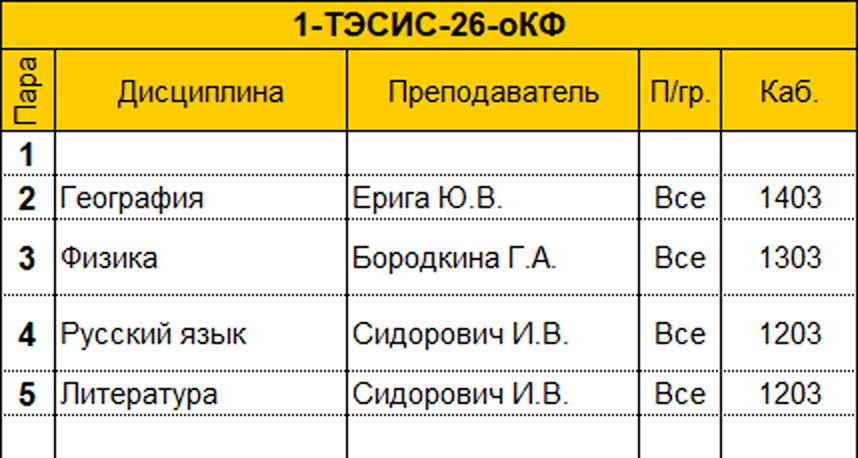
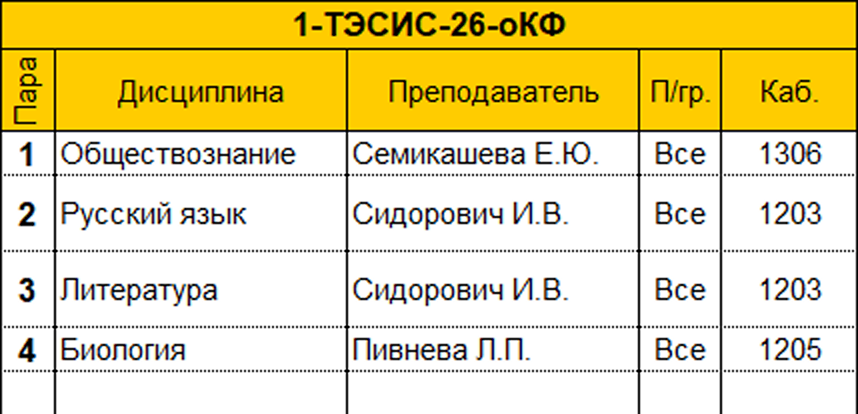
Loool

Changed region(s): [[0.0, 0.0, 1.0, 0.6087], [0.0, 0.6377, 1.0, 0.9275]]

diff --git a/index.html b/index.html
@@ -159,11 +159,15 @@
     async function loadNews() {
       try {
         const list = (await getJSON("news.json")).slice(0, CONFIG.newsLimit);
+        const imgSrc = s => /^https?:/.test(s) ? s : CONFIG.dataPath + s;
         $("news").innerHTML = list.length ? list.map(n => `
       <a class="news-item" href="${esc(n.url)}" target="_blank" rel="noopener">
-        <div class="nt">${esc(n.title)}</div>
-        <div class="nd">${n.date ? new Date(n.date).toLocaleDateString("ru-RU", {day: "numeric", month: "long", year: "numeric"}) : ""}</div>
-        <div class="ns">${esc(n.summary)}</div>
+        ${n.image ? `<img class="news-img" src="${esc(imgSrc(n.image))}" alt="" loading="lazy">` : ""}
+        <div class="news-body">
+          <div class="nt">${esc(n.title)}</div>
+          <div class="nd">${n.date ? new Date(n.date).toLocaleDateString("ru-RU", {day: "numeric", month: "long", year: "numeric"}) : ""}</div>
+          <div class="ns">${esc(n.summary)}</div>
+        </div>
       </a>`).join("") : '<p class="empty">Новостей пока нет.</p>';
       } catch (e) {fail("news", "Новости пока недоступны.");}
     }

diff --git a/styles/index_style.css b/styles/index_style.css
@@ -255,11 +255,33 @@ main.portal {
 
 /* новости */
 .news-item {
-    display: block;
+    display: flex;
     padding: 14px 0;
     border-top: 1px solid var(--line);
     text-decoration: none;
-    color: inherit
+    color: inherit;
+    align-items: flex-start;
+    gap: 14px;
+}
+
+.news-img {
+    width: 112px;
+    height: 76px;
+    object-fit: cover;
+    border-radius: 10px;
+    flex-shrink: 0;
+    background: var(--tint);
+}
+
+.news-body {
+    min-width: 0;
+}
+
+@media (max-width: 520px) {
+    .news-img {
+        width: 84px;
+        height: 60px;
+    }
 }
 
 .news-item:first-of-type {

diff --git a/update.py b/update.py
@@ -10,7 +10,7 @@ import xml.etree.ElementTree as ET
 from datetime import datetime, timedelta
 from email.utils import parsedate_to_datetime
 from pathlib import Path
-from urllib.parse import urljoin
+from urllib.parse import urljoin, urlparse
 from zoneinfo import ZoneInfo
 
 import requests
@@ -131,61 +131,144 @@ def get_schedule(now, out, debug=False):
 
 
 # ---------------------- НОВОСТИ ----------------------
+def decode(content):
+    """Сайт отдаёт UTF-8, но requests без charset в заголовках путает кодировку («кракозябры»)."""
+    for enc in ("utf-8", "cp1251"):
+        try:
+            return content.decode(enc)
+        except UnicodeDecodeError:
+            continue
+    return content.decode("utf-8", errors="replace")
+
+
 def strip_tags(s):
     return clean(re.sub(r"<[^>]+>", " ", s or ""))
 
 
-def short(s, n=220):
+def short(s, n=200):
     s = clean(s)
     return s if len(s) <= n else s[:n].rsplit(" ", 1)[0] + "…"
 
 
-def news_from_rss():
-    for path in ("feed", "rss", "rss.xml", "?feed=rss2", "news/rss"):
+NEWS_HREF = re.compile(r"/(?:novosti|news)/(?!page|\?)[^/?#]+", re.I)
+SKIP_TITLE = re.compile(r"^(все новости|архив|читать|подробнее|далее|ещё|еще)", re.I)
+
+
+def find_image(box):
+    """Картинка новости: <img> (в т.ч. ленивая) или background-image."""
+    for img in box.find_all("img"):
+        src = img.get("data-src") or img.get("data-lazy-src") or img.get("src") or ""
+        if not src and img.get("srcset"):
+            src = img["srcset"].split()[0]
+        if src and not src.startswith("data:") and not re.search(r"logo|icon|\.svg|sprite", src, re.I):
+            return urljoin(BASE, src)
+    for el in box.find_all(style=True):
+        m = re.search(r"url\(['\"]?([^'\")]+)", el["style"])
+        if m:
+            return urljoin(BASE, m[1])
+    return ""
+
+
+def parse_rss(content):
+    items = []
+    for it in ET.fromstring(content).iter("item"):
         try:
-            r = get(urljoin(BASE, path), timeout=(5, 10))
-            if r.status_code != 200 or b"<item" not in r.content[:200000]:
-                continue
-            items = []
-            for it in ET.fromstring(r.content).iter("item"):
-                try:
-                    date = parsedate_to_datetime(it.findtext("pubDate")).date().isoformat()
-                except Exception:
-                    date = ""
-                items.append({"title": clean(it.findtext("title")), "date": date,
-                              "summary": short(strip_tags(it.findtext("description"))),
-                              "url": clean(it.findtext("link"))})
-            if items:
-                return items[:NEWS_LIMIT]
+            date = parsedate_to_datetime(it.findtext("pubDate")).date().isoformat()
         except Exception:
-            continue
-    return []
+            date = ""
+        enc = it.find("enclosure")
+        items.append({"title": clean(it.findtext("title")), "date": date,
+                      "summary": short(strip_tags(it.findtext("description"))),
+                      "url": clean(it.findtext("link")),
+                      "image": enc.get("url", "") if enc is not None else ""})
+    return items[:NEWS_LIMIT]
 
 
-def news_from_html():
-    from bs4 import BeautifulSoup
-    soup = BeautifulSoup(get(BASE).text, "html.parser")
-    seen, items = set(), []
-    for a in soup.find_all("a", href=True):
-        title = clean(a.get_text(" "))
-        href = urljoin(BASE, a["href"])
-        if len(title) < 20 or href in seen or not re.search(r"news|novost|article|post|/20\d\d", href, re.I):
+def news_from_html(soup):
+    links = [a for a in soup.find_all("a", href=True) if NEWS_HREF.search(urlparse(urljoin(BASE, a["href"])).path)]
+    hrefs = {urljoin(BASE, a["href"]).split("#")[0] for a in links}
+    order, items = [], {}
+    for a in links:
+        href = urljoin(BASE, a["href"]).split("#")[0]
+        if href not in items:
+            items[href] = a
+            order.append(href)
+    res = []
+    for href in order:
+        a = items[href]
+        # поднимаемся до карточки: пока внутри только эта новость
+        box = a
+        for _ in range(5):
+            par = box.parent
+            if par is None or par.name in ("body", "html"):
+                break
+            inside = {urljoin(BASE, x["href"]).split("#")[0] for x in par.find_all("a", href=True)} & hrefs
+            if inside - {href}:
+                break
+            box = par
+        titles = [clean(x.get_text(" ")) for x in box.find_all("a", href=True)
+                  if urljoin(BASE, x["href"]).split("#")[0] == href]
+        heading = box.find(["h1", "h2", "h3", "h4", "h5"])
+        title = clean(heading.get_text(" ")) if heading else ""
+        if not title:
+            title = max((t for t in titles if not SKIP_TITLE.match(t)), key=len, default="")
+        if len(title) < 12 or SKIP_TITLE.match(title):
             continue
-        seen.add(href)
-        box = a.find_parent(["article", "li", "div"]) or a
         text = clean(box.get_text(" "))
         m = re.search(r"(\d{2})\.(\d{2})\.(\d{4})", text)
-        date = f"{m[3]}-{m[2]}-{m[1]}" if m else ""
-        p = box.find("p")
-        summary = short(p.get_text(" ")) if p and clean(p.get_text()) != title else ""
-        items.append({"title": title, "date": date, "summary": summary, "url": href})
-        if len(items) >= NEWS_LIMIT:
+        slug = re.search(r"/(\d{2})(\d{2})(\d{2})-\d+", href)
+        date = f"{m[3]}-{m[2]}-{m[1]}" if m else (f"20{slug[1]}-{slug[2]}-{slug[3]}" if slug else "")
+        p = next((clean(x.get_text(" ")) for x in box.find_all("p") if len(clean(x.get_text())) > 30
+                  and clean(x.get_text()) != title), "")
+        res.append({"title": title, "date": date, "summary": short(p), "url": href, "image": find_image(box)})
+        if len(res) >= NEWS_LIMIT:
             break
+    return res
+
+
+def save_image(url, out):
+    """Скачивает картинку новости в news_img/ (уменьшенную). Если не вышло — оставляет ссылку."""
+    import hashlib
+    import cv2, numpy as np
+    name = hashlib.md5(url.encode()).hexdigest()[:12] + ".jpg"
+    path = out / "news_img" / name
+    if path.exists():
+        return f"news_img/{name}"
+    try:
+        r = get_retry(url, tries=2, timeout=(15, 60))
+        im = cv2.imdecode(np.frombuffer(r.content, np.uint8), cv2.IMREAD_COLOR)
+        if im is None:
+            return url
+        h, w = im.shape[:2]
+        if w > 640:
+            im = cv2.resize(im, (640, int(h * 640 / w)), interpolation=cv2.INTER_AREA)
+        path.parent.mkdir(exist_ok=True)
+        path.write_bytes(cv2.imencode(".jpg", im, [cv2.IMWRITE_JPEG_QUALITY, 82])[1].tobytes())
+        return f"news_img/{name}"
+    except Exception as e:
+        print("картинка не скачана:", url, repr(e), file=sys.stderr)
+        return url
+
+
+def get_news(out):
+    from bs4 import BeautifulSoup
+    soup = BeautifulSoup(decode(get_retry(BASE).content), "html.parser")
+    items = []
+    link = soup.find("link", type=re.compile(r"rss|atom", re.I))
+    if link and link.get("href"):
+        try:
+            items = parse_rss(get_retry(urljoin(BASE, link["href"])).content)
+        except Exception as e:
+            print("RSS не разобран:", repr(e), file=sys.stderr)
+    items = items or news_from_html(soup)
+    for it in items:
+        if it.get("image"):
+            it["image"] = save_image(it["image"], out)
+    keep = {Path(i["image"]).name for i in items if i.get("image", "").startswith("news_img/")}
+    for f in (out / "news_img").glob("*.jpg") if (out / "news_img").exists() else []:
+        if f.name not in keep:
+            f.unlink()
     return items
-
-
-def get_news():
-    return news_from_rss() or news_from_html()
 
 
 # ---------------------- MAIN ----------------------
@@ -194,22 +277,18 @@ def save(path, obj):
     print("записан", path)
 
 
-def main():
-    ap = argparse.ArgumentParser()
-    ap.add_argument("--out", default=".")
-    ap.add_argument("--debug", action="store_true")
-    a = ap.parse_args()
-    out = Path(a.out)
+def run(out, debug=False):
+    """Обновляет файлы в папке out. Возвращает число неудачных частей (0, 1 или 2)."""
+    out = Path(out)
     out.mkdir(parents=True, exist_ok=True)
     now, fails = datetime.now(TZ), 0
-
     try:
-        save(out / "schedule.json", get_schedule(now, out, a.debug))
+        save(out / "schedule.json", get_schedule(now, out, debug))
     except Exception as e:
         fails += 1
         print("Ошибка расписания:", repr(e), file=sys.stderr)
     try:
-        news = get_news()
+        news = get_news(out)
         if news:
             save(out / "news.json", news)
         else:
@@ -218,7 +297,15 @@ def main():
     except Exception as e:
         fails += 1
         print("Ошибка новостей:", repr(e), file=sys.stderr)
-    sys.exit(1 if fails == 2 else 0)
+    return fails
+
+
+def main():
+    ap = argparse.ArgumentParser()
+    ap.add_argument("--out", default=".")
+    ap.add_argument("--debug", action="store_true")
+    a = ap.parse_args()
+    sys.exit(1 if run(a.out, a.debug) == 2 else 0)
 
 
 if __name__ == "__main__":

diff --git a/sync.py b/sync.py
@@ -1,0 +1,66 @@
+#!/usr/bin/env python3
+"""Один скрипт: подтянуть репозиторий -> обновить данные -> отправить на GitHub.
+
+Запуск вручную:       python sync.py
+Планировщик Windows:  программа  python.exe   аргументы  sync.py   рабочая папка  = папка репозитория
+Лог пишется в update.log рядом со скриптом.
+"""
+import subprocess
+import sys
+from datetime import datetime
+from pathlib import Path
+
+import update   # update.py должен лежать рядом
+
+ROOT = Path(__file__).resolve().parent
+LOG = ROOT / "update.log"
+# что отправляем на GitHub (отсутствующие файлы пропускаются)
+FILES = ["schedule.json", "schedule.png", "news.json", "news_img"]
+
+
+def log(msg):
+    line = f"[{datetime.now():%Y-%m-%d %H:%M:%S}] {msg}"
+    print(line)
+    with LOG.open("a", encoding="utf-8") as f:
+        f.write(line + "\n")
+
+
+def git(*args):
+    r = subprocess.run(["git", *args], cwd=ROOT, capture_output=True, text=True, encoding="utf-8", errors="replace")
+    out = (r.stdout + r.stderr).strip()
+    if out:
+        log(f"git {' '.join(args)}: {out}")
+    return r.returncode
+
+
+def main():
+    log("=== запуск ===")
+    git("pull", "--rebase", "--autostash")
+
+    fails = update.run(ROOT)
+    if fails:
+        log(f"обновление прошло с ошибками (частей с ошибкой: {fails}); отправляю то, что получилось")
+
+    for f in FILES:
+        if (ROOT / f).exists():
+            git("add", "-A", "--", f)
+    # ничего не изменилось -> выходим
+    if git("diff", "--cached", "--quiet") == 0:
+        log("изменений нет, отправлять нечего")
+        return 0
+
+    if git("commit", "-m", f"Автообновление данных {datetime.now():%d.%m.%Y %H:%M}") != 0:
+        log("не удалось создать коммит")
+        return 1
+    if git("push") != 0:
+        log("push отклонён, пробую подтянуть изменения и повторить")
+        git("pull", "--rebase", "--autostash")
+        if git("push") != 0:
+            log("НЕ УДАЛОСЬ отправить на GitHub (проверьте вход в git)")
+            return 1
+    log("готово: данные отправлены на GitHub")
+    return 0
+
+
+if __name__ == "__main__":
+    sys.exit(main())
